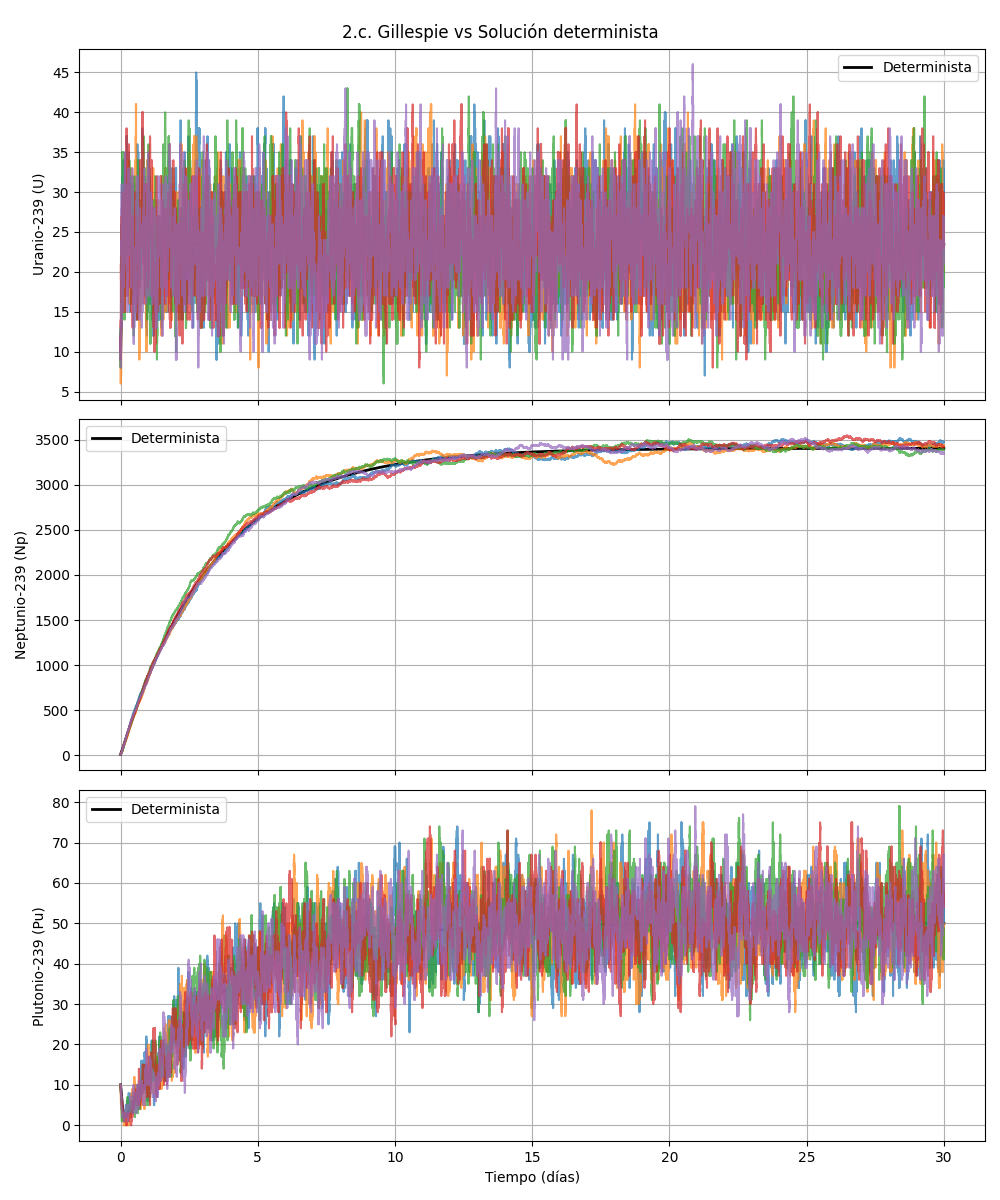
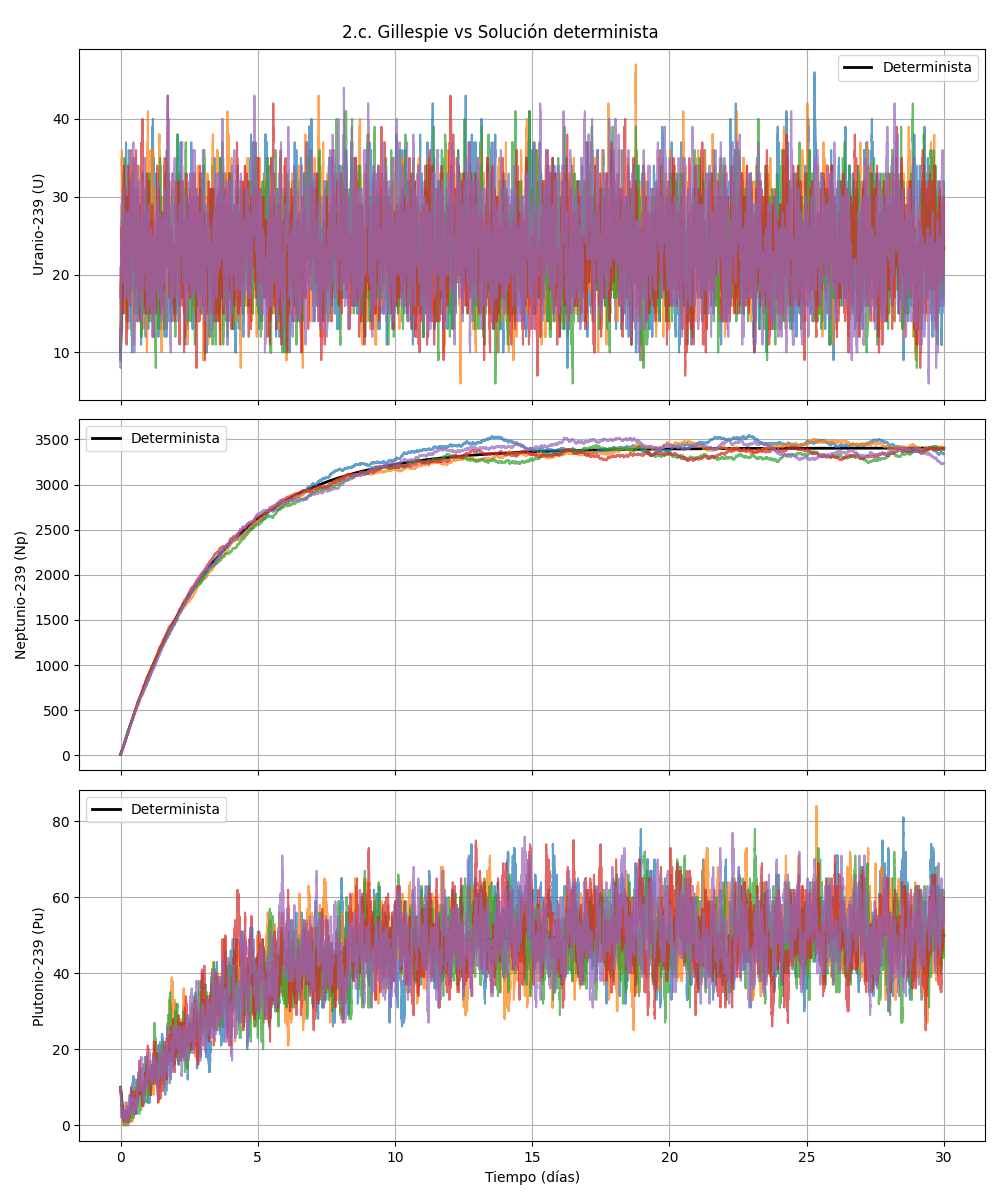
cambios finales 2

diff --git a/Taller 5/Punto 2.py b/Taller 5/Punto 2.py
@@ -73,7 +73,6 @@ for i, iso in enumerate(isotopos):
     else:
         print(f"{iso}: NO alcanza estado estable en 30 días, valor final ≈ {sol.y[i,-1]:.2f}")
 # 2b. Ecuación diferencial estocástica (Runge-Kutta estocástico de orden 2)
-
 def sde_rk2(A, B, lambda_U, lambda_Np, tiempo, dt=0.01, U0=10, Np0=10, Pu0=10):
     pasos = int(tiempo/dt)
     t_vals = np.linspace(0, tiempo, pasos)
@@ -83,23 +82,39 @@ def sde_rk2(A, B, lambda_U, lambda_Np, tiempo, dt=0.01, U0=10, Np0=10, Pu0=10):
     U[0], Np[0], Pu[0] = U0, Np0, Pu0
 
     for i in range(1, pasos):
-        # ---- Evolución de U con ruido estocástico ----
+        # ==========================
+        # Ruido en U
+        # ==========================
         muU = A - lambda_U * U[i-1]
         sigmaU = np.sqrt(A + lambda_U * U[i-1])
-        W = np.random.normal(0,1)
-        S = np.random.choice([-1,1])
+        WU = np.random.normal(0,1)
+        SU = np.random.choice([-1,1])
+        K1U = dt*muU + (WU - SU)*np.sqrt(dt)*sigmaU
+        K2U = dt*(A - lambda_U*(U[i-1] + K1U)) + (WU + SU)*np.sqrt(dt)*np.sqrt(A + lambda_U*(U[i-1] + K1U))
+        U[i] = U[i-1] + 0.5*(K1U + K2U)
 
-        K1 = dt*muU + (W+S)*np.sqrt(dt)*sigmaU
-        K2 = dt*(A - lambda_U*(U[i-1]+K1)) + (W+S)*np.sqrt(dt)*np.sqrt(A + lambda_U*(U[i-1]+K1))
+        # ==========================
+        # Ruido en Np
+        # ==========================
+        muNp = lambda_U * U[i] - lambda_Np * Np[i-1]
+        sigmaNp = np.sqrt(lambda_U * U[i] + lambda_Np * Np[i-1])
+        WNp = np.random.normal(0,1)
+        SNp = np.random.choice([-1,1])
+        K1Np = dt*muNp + (WNp - SNp)*np.sqrt(dt)*sigmaNp
+        K2Np = dt*(lambda_U * U[i] - lambda_Np*(Np[i-1] + K1Np)) + (WNp + SNp)*np.sqrt(dt)*np.sqrt(lambda_U * U[i] + lambda_Np*(Np[i-1] + K1Np))
+        Np[i] = Np[i-1] + 0.5*(K1Np + K2Np)
 
-        U[i] = U[i-1] + 0.5*(K1+K2)
+        # ==========================
+        # Ruido en Pu
+        # ==========================
+        muPu = lambda_Np * Np[i] - B * Pu[i-1]
+        sigmaPu = np.sqrt(lambda_Np * Np[i] + B * Pu[i-1])
+        WPu = np.random.normal(0,1)
+        SPu = np.random.choice([-1,1])
+        K1Pu = dt*muPu + (WPu - SPu)*np.sqrt(dt)*sigmaPu
+        K2Pu = (dt * (lambda_Np * (Np[i-1] + K1Np) - B * (Pu[i-1] + K1Pu)) + (WPu + SPu) * np.sqrt(dt) * np.sqrt(lambda_Np * (Np[i-1] + K1Np) + B * (Pu[i-1] + K1Pu)))
 
-        # ---- Determinista para Np y Pu ----
-        dNp = (lambda_U * U[i-1] - lambda_Np * Np[i-1]) * dt
-        dPu = (lambda_Np * Np[i-1] - B * Pu[i-1]) * dt
-
-        Np[i] = Np[i-1] + dNp
-        Pu[i] = Pu[i-1] + dPu
+        Pu[i] = Pu[i-1] + 0.5*(K1Pu + K2Pu)
 
     return t_vals, U, Np, Pu
 
@@ -238,7 +253,7 @@ plt.savefig("Taller 5/2.c.png")
 import numpy as np
 from math import sqrt
 
-# ---------- Wrappers de simulación ----------
+# ---------- Resultados simulación ----------
 def simulacion_determinista(tiempo_simulacion):
     sol = solve_ivp(ecuaciones_diferenciales, [0, tiempo_simulacion],
                     [U0, Np0, Pu0],
